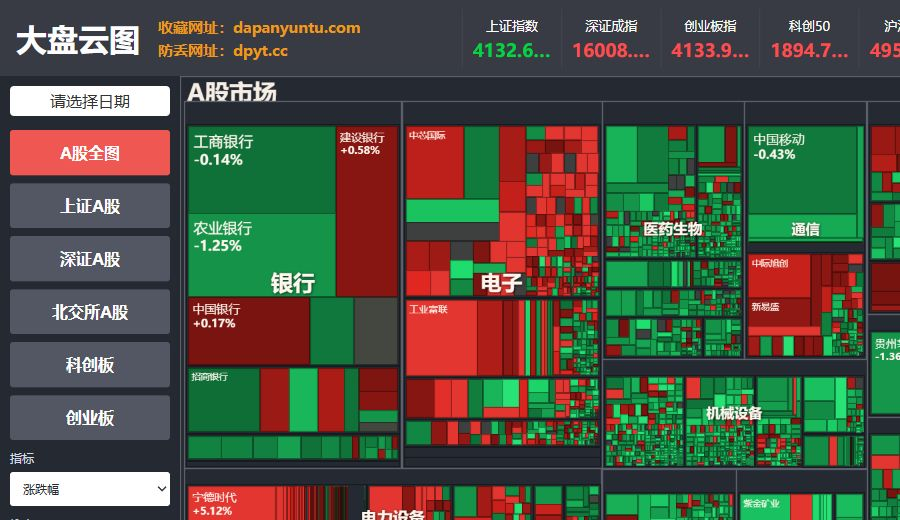
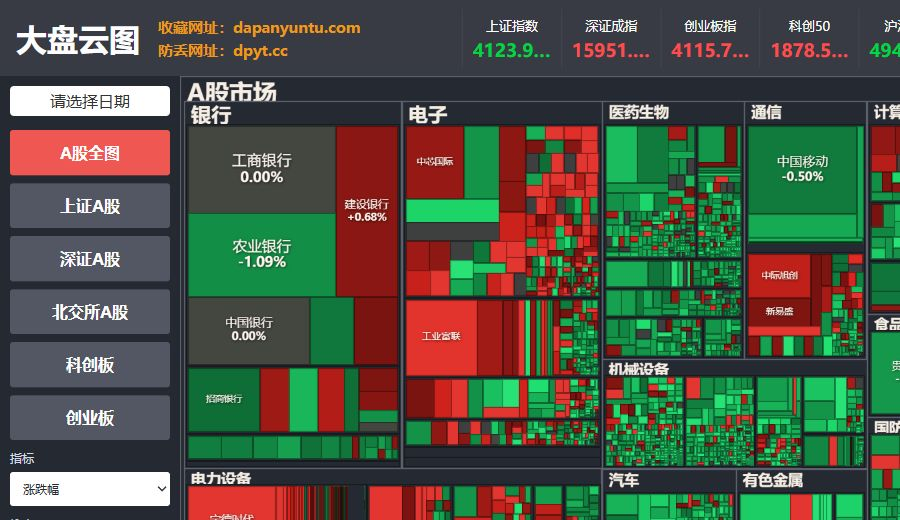
Center stock labels within tiles

diff --git a/app.js b/app.js
@@ -226,7 +226,7 @@
       ctx.lineWidth = rect.node.depth <= 1 ? 1.2 : 0.65;
       ctx.strokeRect(Math.round(r.x) + 0.5, Math.round(r.y) + 0.5, Math.max(0, Math.ceil(r.w) - 1), Math.max(0, Math.ceil(r.h) - 1));
 
-      if (rect.node.depth === 0 && r.w > 48 && r.h > 23) {
+      if (rect.node.depth <= 1 && r.w > 48 && r.h > 23) {
         const size = Math.min(24, Math.max(15, Math.sqrt(r.w * r.h) / 14));
         drawFittedText(rect.node.name, r.x + 7, r.y + size + 1, r.w - 14, size, "#f6eee4", true);
       } else if (!rect.node.children && r.w > 46 && r.h > 24) {
@@ -239,10 +239,6 @@
         ctx.strokeRect(r.x + 2, r.y + 2, Math.max(0, r.w - 4), Math.max(0, r.h - 4));
       }
     });
-
-    state.rects
-      .filter((rect) => rect.node.depth === 1 && visible(rect.screen, width, height))
-      .forEach((rect) => drawSectorLabel(rect.node, rect.screen));
 
     emptyState.hidden = Object.keys(state.perf).length > 0;
   }
@@ -293,12 +289,6 @@
     ctx.restore();
   }
 
-  function drawSectorLabel(node, rect) {
-    if (rect.w < 68 || rect.h < 44) return;
-    const size = Math.max(14, Math.min(26, Math.sqrt(rect.w * rect.h) / 13));
-    drawCenteredFittedText(node.name, rect.x + rect.w / 2, rect.y + rect.h / 2, rect.w - 18, size, "#fff7ee", true);
-  }
-
   function stockFontSize(rect) {
     const area = rect.w * rect.h;
     const base = Math.sqrt(area) / 7.6;
@@ -308,18 +298,25 @@
 
   function drawStockLabel(node, perf, rect) {
     const fontSize = stockFontSize(rect);
-    const lineHeight = Math.round(fontSize * 1.18);
     const pad = Math.max(3, Math.min(8, fontSize * 0.38));
     const maxWidth = rect.w - pad * 2;
-    const canShowValue = rect.h >= pad * 2 + lineHeight * 2 - 1 && rect.w > 42;
-    const canShowName = rect.h >= pad * 2 + lineHeight && rect.w > 36;
+    const valueSize = Math.max(9, Math.min(fontSize * 0.94, rect.h / 3.4));
+    const canShowValue = rect.h >= pad * 2 + fontSize + valueSize + 5 && rect.w > 42 && fontSize >= 10;
+    const canShowName = rect.h >= pad * 2 + fontSize && rect.w > 36;
 
     if (!canShowName) return;
-    drawFittedText(node.name, rect.x + pad, rect.y + pad + fontSize, maxWidth, fontSize, "#fff7ee", false);
+    const centerX = rect.x + rect.w / 2;
+    const centerY = rect.y + rect.h / 2;
 
-    if (!canShowValue || fontSize < 10) return;
-    const valueSize = Math.max(9, Math.min(fontSize * 0.94, rect.h / 3.4));
-    drawFittedText(formatValue(perf.value), rect.x + pad, rect.y + pad + fontSize + lineHeight, maxWidth, valueSize, "#fff7ee", true);
+    if (!canShowValue) {
+      drawCenteredFittedText(node.name, centerX, centerY, maxWidth, fontSize, "#fff7ee", false);
+      return;
+    }
+
+    const gap = Math.max(2, fontSize * 0.12);
+    const totalHeight = fontSize + valueSize + gap;
+    drawCenteredFittedText(node.name, centerX, centerY - totalHeight / 2 + fontSize / 2, maxWidth, fontSize, "#fff7ee", false);
+    drawCenteredFittedText(formatValue(perf.value), centerX, centerY + totalHeight / 2 - valueSize / 2, maxWidth, valueSize, "#fff7ee", true);
   }
 
   function formatValue(value) {
